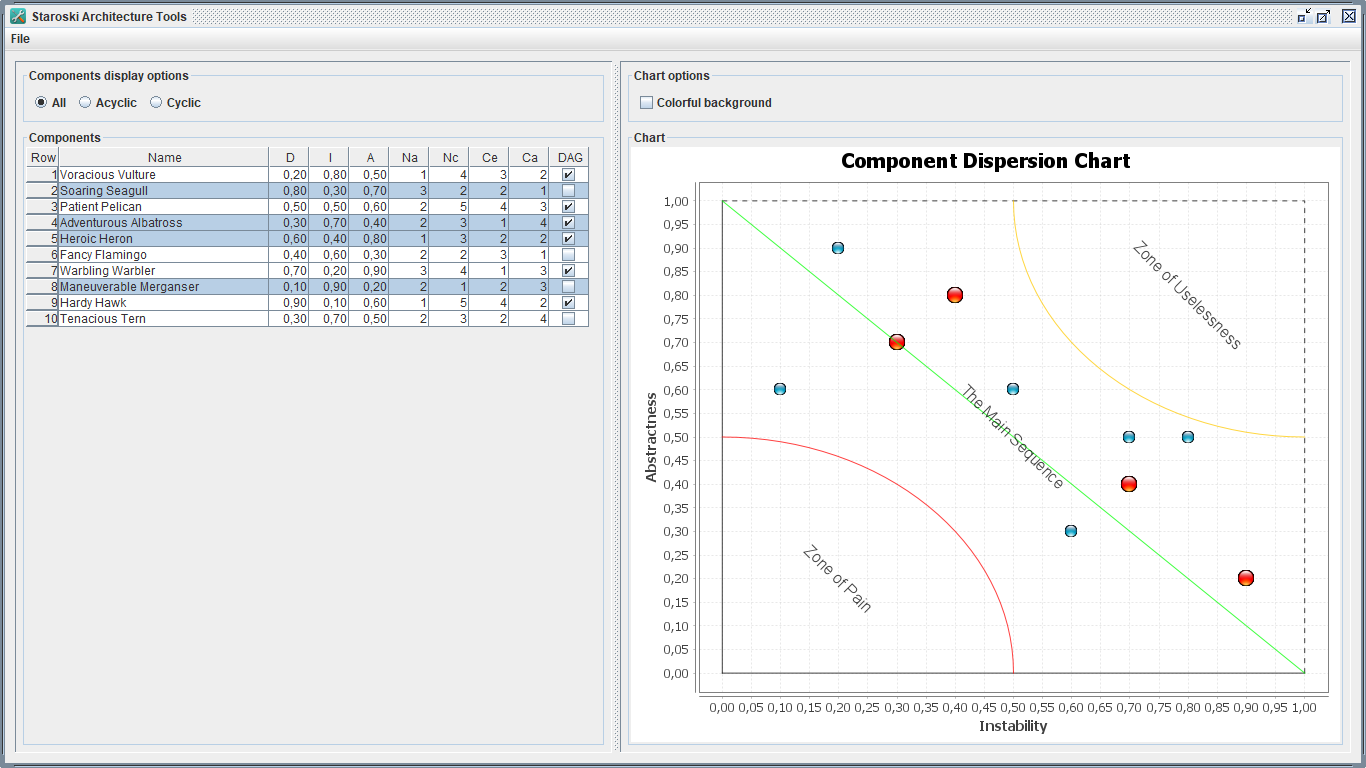
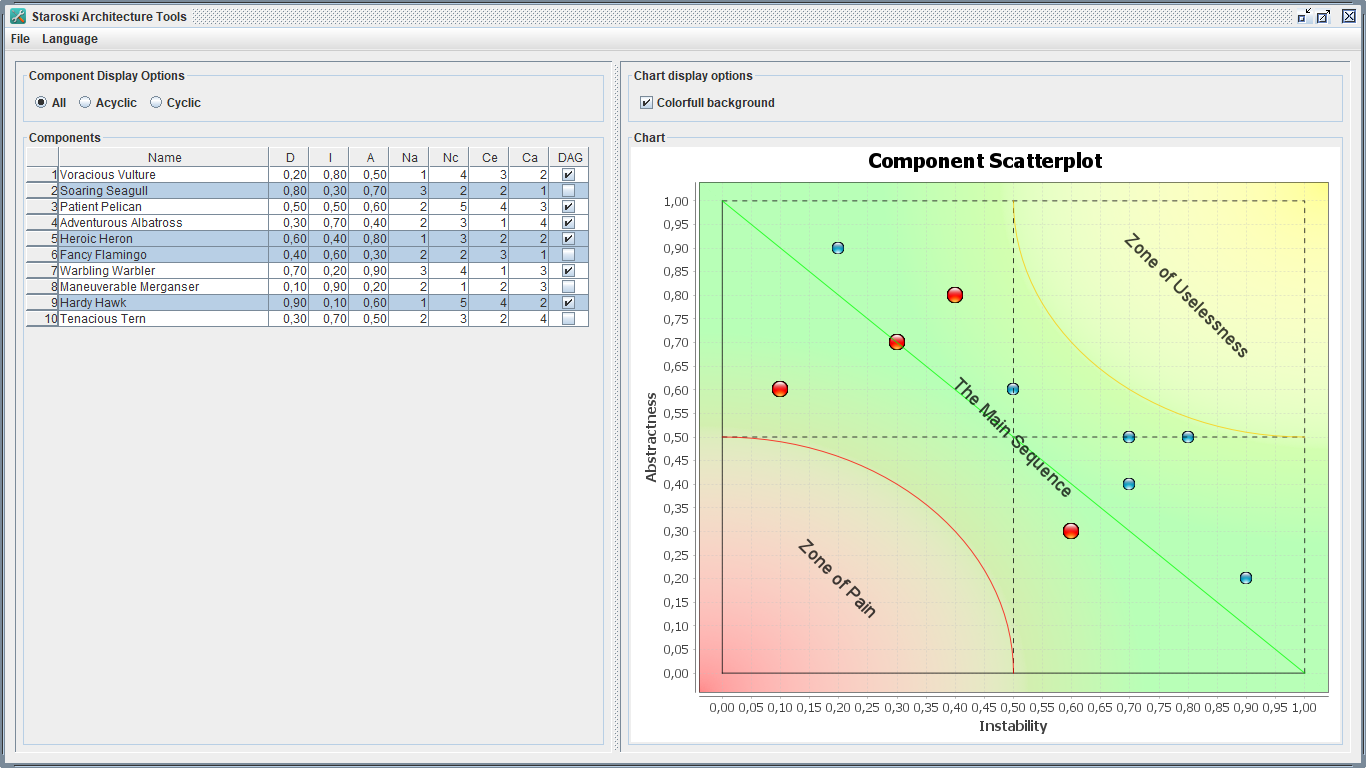
Updated 'README.md'

diff --git a/src/br/com/staroski/tools/analysis/ui/DispersionChartPanel.java b/src/br/com/staroski/tools/analysis/ui/DispersionChartPanel.java
@@ -589,9 +589,11 @@ final class DispersionChartPanel extends JPanel {
                 new float[] { 5.0f, 5.0f }, 0.0f);
 
         XYLineAnnotation xAxisTop = new XYLineAnnotation(0, 1, 1, 1, dashes, Color.BLACK);
+        XYLineAnnotation xAxisCenter = new XYLineAnnotation(0, 0.5, 1, 0.5, dashes, Color.BLACK);
         XYLineAnnotation xAxisBottom = new XYLineAnnotation(0, 0, 1, 0, line, Color.BLACK);
 
         XYLineAnnotation yAxisLeft = new XYLineAnnotation(0, 0, 0, 1, line, Color.BLACK);
+        XYLineAnnotation yAxisCenter = new XYLineAnnotation(0.5, 0, 0.5, 1, dashes, Color.BLACK);
         XYLineAnnotation yAxisRight = new XYLineAnnotation(1, 0, 1, 1, dashes, Color.BLACK);
 
         Font textFont = new Font("SansSerif", Font.PLAIN, 18);
@@ -625,9 +627,11 @@ final class DispersionChartPanel extends JPanel {
         zoneOfUselessnesAnnotation.setFont(textFont);
 
         plot.addAnnotation(xAxisTop);
+        plot.addAnnotation(xAxisCenter);
         plot.addAnnotation(xAxisBottom);
 
         plot.addAnnotation(yAxisLeft);
+        plot.addAnnotation(yAxisCenter);
         plot.addAnnotation(yAxisRight);
 
         plot.addAnnotation(mainSequence);

diff --git a/src/br/com/staroski/tools/Execute.java b/src/br/com/staroski/tools/Execute.java
@@ -19,8 +19,6 @@ public final class Execute {
 
     public static void main(String... args) {
         try {
-            UI.setLocale(UI.BRAZIL);
-            
             // apply look and feel
             applyLookAndFeel();
 
@@ -33,6 +31,7 @@ public final class Execute {
 
     private static void applyLookAndFeel() throws UnsupportedLookAndFeelException {
         try {
+            UI.setLocale(UI.UNITED_STATES);
             UIManager.setLookAndFeel(new MetalLookAndFeel());
             JFrame.setDefaultLookAndFeelDecorated(true);
             JDialog.setDefaultLookAndFeelDecorated(true);

diff --git a/README.md b/README.md
@@ -11,7 +11,7 @@ The tool reads a CSV file containing metrics for each component, including:
 - **Name**: Component name;
 - **D**: Distance from the "Main Sequence" (a decimal value between 0.0 and 1.0);
 - **I**: Instability (a decimal value between 0.0 and 1.0);
-- **A**: Abstraction (a decimal value between 0.0 and 1.0);
+- **A**: Abstractness (a decimal value between 0.0 and 1.0);
 - **Na**: Number of abstract types (an integer);
 - **Nc**: Number of concrete types (an integer);
 - **Ce**: Efferent coupling, i.e., outgoing dependencies (an integer);
